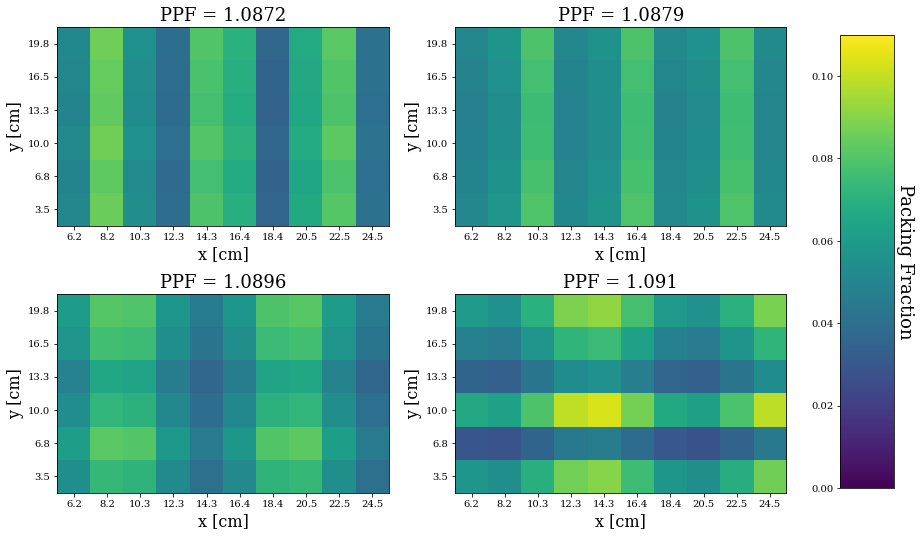
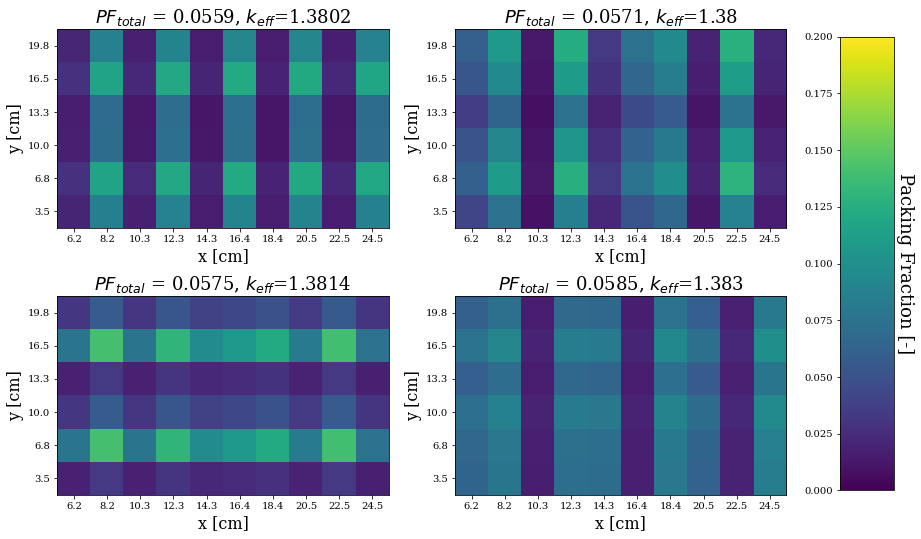
writing

diff --git a/docs/ahtr_rollo_assem.tex b/docs/ahtr_rollo_assem.tex
@@ -142,14 +142,14 @@ Table \ref{tab:simulationa1a} shows simulation a-1a's optimization problem param
     \hline
     \textbf{Constraints} & $k_{eff} \geq 1.38$\\ 
     \hline 
-    \textbf{Genetic Algorithm Parameters} & Population size: 64 \\
+    \textbf{Genetic Algorithm Parameters} & Population size: 128 \\
     & Generations: 3 \\
     \hline
     \end{tabular}
 \end{table}
 
 Figure \ref{fig:assem-obj-1-pf-evol} shows the $PF_{total}$ evolution.
-Figure \ref{fig:assem-obj-1-pf-final} shows the four TRISO packing fraction distributions 
+Figure \ref{fig:assem-obj-1-pf-final} shows four unique TRISO packing fraction distributions 
 in the final generation with the most-minimized $PF_{total}$. 
 Figure \ref{fig:assem-obj-1-pf-most-minimized} illustrates the \gls{AHTR} one-third 
 assembly model with the most-minimized $PF_{total}$.
@@ -190,7 +190,7 @@ assembly model with the most-minimized $PF_{total}$.
 Figure \ref{fig:assem-obj-1-pf-evol} shows that the minimum and average $PF_{total}$ 
 converged quickly, as expected in this single-objective optimization problem.
 By the final generation, the average and minimum $PF_{total}$
-values converged to approximately 0.017. 
+values converged to approximately 0.057. 
 In Figure \ref{fig:assem-obj-1-pf-final}, the four TRISO packing fraction distributions 
 in the final generation that most-minimized $PF_{total}$ are the same.
 The TRISO packing fraction peaks in the center of the one-third assembly and is 
